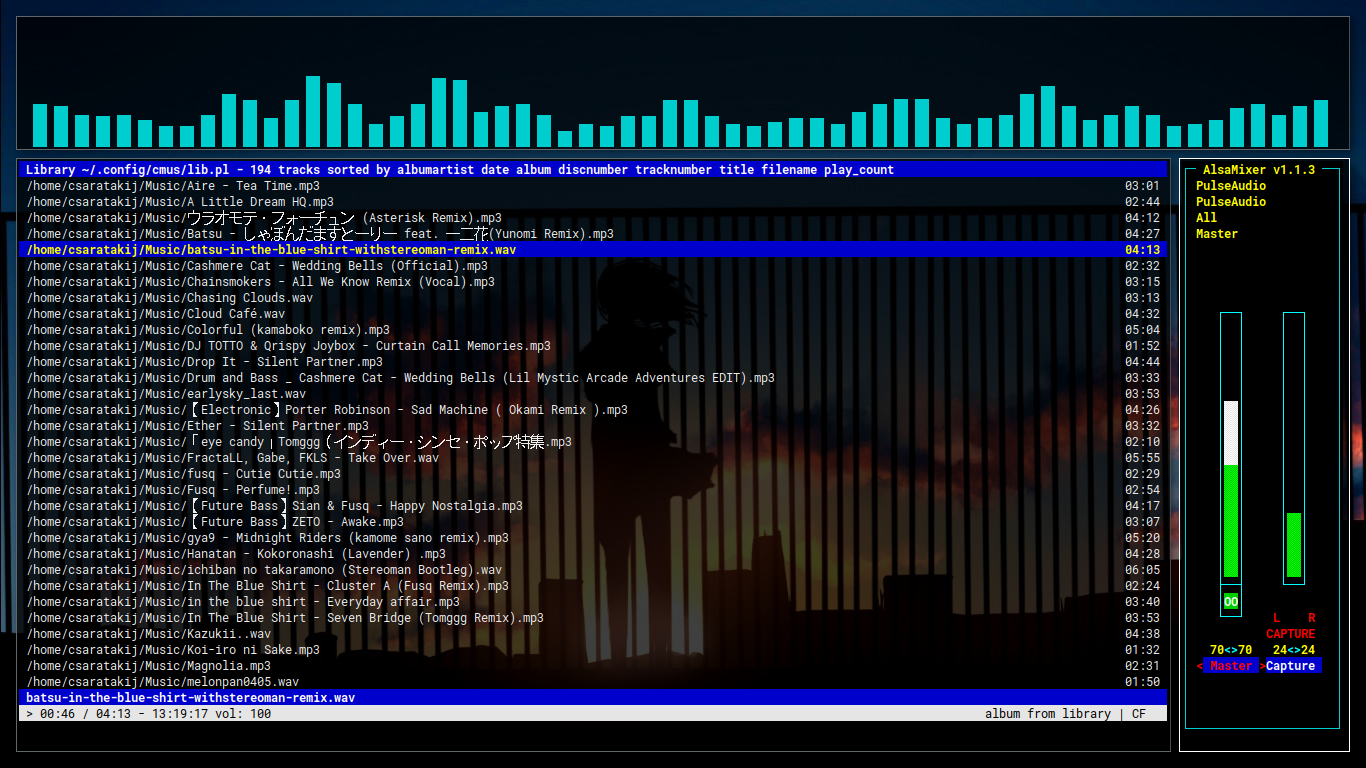
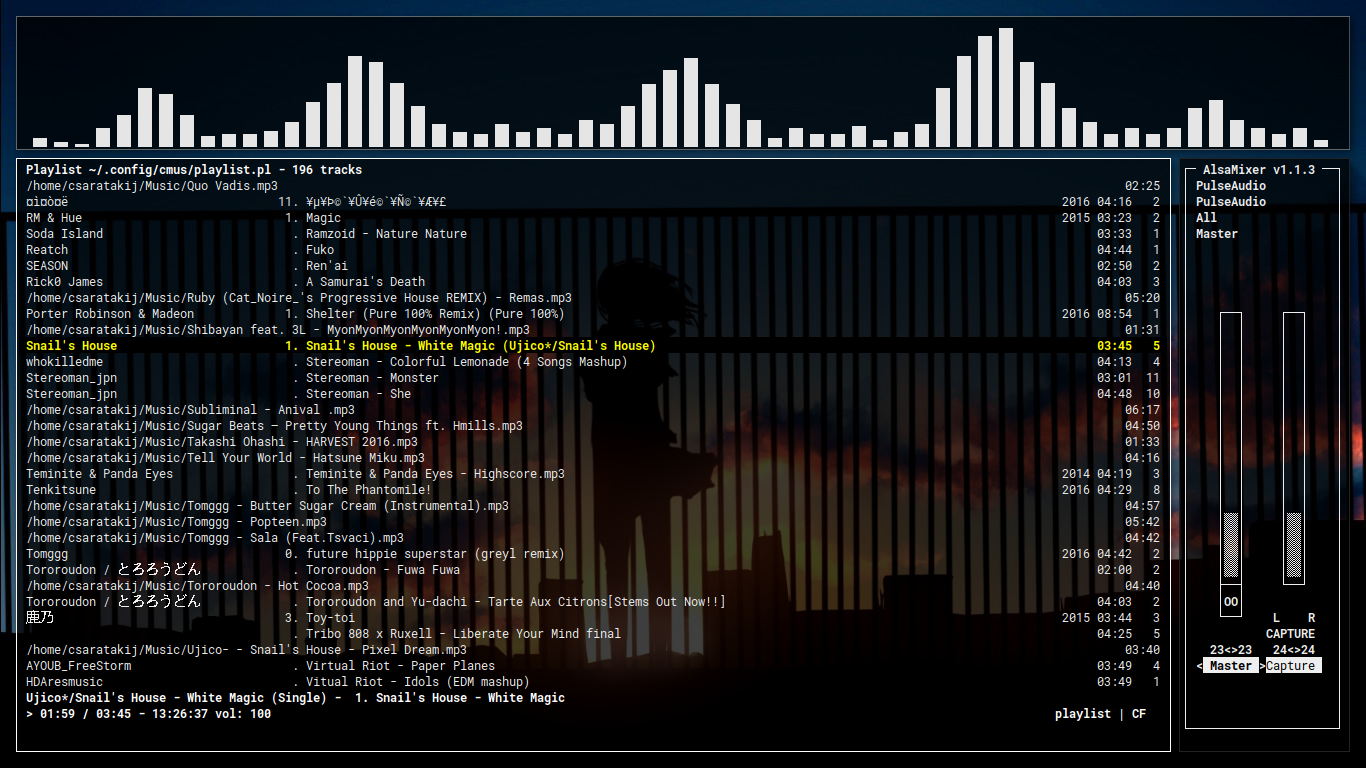
Make music workspace less colorful.

Changed region(s): [[0.0, 0.0312, 0.9839, 0.9375], [0.9224, 0.3438, 0.9531, 0.375]]

diff --git a/README.md b/README.md
@@ -43,6 +43,7 @@
 - Copy "zshrc" to "~/.zshrc"
 - Copy "vimrc" to "~/.vimrc"
 - Copy "vimfx" to "~/.vimfx"
+- Move "/usr/share/cmus/default.theme" to "default_ori.theme" && Copy "cmus/default.theme" to "~/.config/cmus"
 
 # Dependencies
 - [i3-gaps](https://github.com/Airblader/i3)
